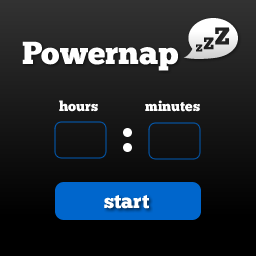
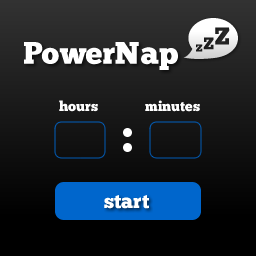
- extracted button and textfield classes - new background with changed casing - first draft of the actual countdown class

Changed region(s): [[0.0625, 0.1562, 0.6875, 0.2812], [0.5625, 0.4688, 0.8125, 0.625], [0.375, 0.4688, 0.4375, 0.625]]

diff --git a/powerNap/src/powernap/NapFrame.java b/powerNap/src/powernap/NapFrame.java
@@ -31,34 +31,25 @@ public class NapFrame extends JFrame
 	private JTextField tbMinutes;
 	private JLayeredPane layers;
 
-	class TransparentButton extends JButton
-	{
-		private static final long serialVersionUID = 7639226803169238927L;
-
-		public TransparentButton(String text)
-		{
-			super(text);
-			setOpaque(false);
-		}
-
-		public void paint(Graphics g)
-		{
-			Graphics2D g2 = (Graphics2D) g.create();
-			g2.setComposite(AlphaComposite.getInstance(AlphaComposite.SRC_OVER,
-					0.1f));
-			super.paint(g2);
-			g2.dispose();
-		}
-	}
-
 	public NapFrame(String string)
 	{
 		super(string);
 
 		initialize();
 		addUI();
+		
+		initOSX();
 
 		this.pack();
+	}
+
+	private void initOSX()
+	{
+		if(Main.IS_MAC)
+		{
+			System.setProperty("apple.laf.useScreenMenuBar", "true");
+			System.setProperty("com.apple.mrj.application.apple.menu.about.name", Main.APP_NAME);  
+		}
 	}
 
 	private void initialize()
@@ -94,7 +85,7 @@ public class NapFrame extends JFrame
 	{
 		layers = this.getLayeredPane();
 
-		btStart = new TransparentButton("");
+		btStart = new NapButton("");
 		btStart.setSize(146, 38);
 		btStart.setLocation(55, 182);
 		btStart.setContentAreaFilled(false);
@@ -124,19 +115,5 @@ public class NapFrame extends JFrame
 		tbMinutes.setFont(font);
 		tbMinutes.setText("0");
 		layers.add(tbMinutes, JLayeredPane.PALETTE_LAYER);
-	}
-	
-	class NapTextfield extends JTextField
-	{
-		private static final long serialVersionUID = 2797874554619229084L;
-
-		public NapTextfield()
-		{
-			super();
-			setBorder(javax.swing.BorderFactory.createEmptyBorder());
-			setForeground(Color.WHITE);
-			setOpaque(false);
-			setHorizontalAlignment(JTextField.CENTER);
-		}
 	}
 }

diff --git a/powerNap/src/powernap/Countdown.java b/powerNap/src/powernap/Countdown.java
@@ -1,0 +1,62 @@
+package powernap;
+
+public class Countdown
+{
+	private CountdownListener listener;
+	private long countdownEndMillis = Long.MAX_VALUE;
+	private Thread countdownThread;
+
+	public Countdown()
+	{
+		this.countdownThread = new Thread(new CountdownThread());
+	}
+
+	public interface CountdownListener
+	{
+		void countdownElapsed();
+	}
+
+	public void setCountdownListener(CountdownListener listener)
+	{
+		this.listener = listener;
+	}
+
+	private class CountdownThread implements Runnable
+	{
+		public void run()
+		{
+			for (;;)
+			{
+				if (System.currentTimeMillis() > countdownEndMillis)
+				{
+					if (listener != null)
+					{
+						listener.countdownElapsed();
+					}
+					break;
+				}
+				try
+				{
+					Thread.sleep(500);
+				}
+				catch (InterruptedException e)
+				{
+				}
+			}
+		}
+	}
+
+	public void startCountdown(int hours, int minutes, int seconds)
+	{
+		long nowMillis = System.currentTimeMillis();
+		
+		long durationMillis = 0;
+		durationMillis += hours * 3600 * 1000;
+		durationMillis += minutes * 60 * 1000;
+		durationMillis += seconds * 1000;
+		
+		countdownEndMillis = nowMillis + durationMillis;
+
+		countdownThread.start();
+	}
+}

diff --git a/powerNap/src/powernap/Main.java b/powerNap/src/powernap/Main.java
@@ -11,6 +11,7 @@ public class Main
 {
     public static boolean IS_MAC = (System.getProperty("os.name").toLowerCase().startsWith("mac os x"));
     public static int MENU_MASK = Toolkit.getDefaultToolkit().getMenuShortcutKeyMask();
+    public static String APP_NAME = "PowerNap";
 
 	public static void main(String[] args) throws Exception
 	{
@@ -19,7 +20,7 @@ public class Main
 		
 		UIManager.setLookAndFeel(UIManager.getSystemLookAndFeelClassName());
 
-		final JFrame f = new NapFrame("PowerNap");
+		final JFrame f = new NapFrame(APP_NAME);
 		f.setDefaultCloseOperation(JFrame.DO_NOTHING_ON_CLOSE);		
 		f.setSize(256, 276);
 		f.setResizable(false);

diff --git a/powerNap/src/powernap/NapButton.java b/powerNap/src/powernap/NapButton.java
@@ -1,0 +1,27 @@
+package powernap;
+
+import java.awt.AlphaComposite;
+import java.awt.Graphics;
+import java.awt.Graphics2D;
+
+import javax.swing.JButton;
+
+class NapButton extends JButton
+{
+	private static final long serialVersionUID = 7639226803169238927L;
+
+	public NapButton(String text)
+	{
+		super(text);
+		setOpaque(false);
+	}
+
+	public void paint(Graphics g)
+	{
+		Graphics2D g2 = (Graphics2D) g.create();
+		g2.setComposite(AlphaComposite.getInstance(AlphaComposite.SRC_OVER,
+				0.1f));
+		super.paint(g2);
+		g2.dispose();
+	}
+}

diff --git a/powerNap/src/powernap/NapTextfield.java b/powerNap/src/powernap/NapTextfield.java
@@ -1,0 +1,19 @@
+package powernap;
+
+import java.awt.Color;
+
+import javax.swing.JTextField;
+
+public 	class NapTextfield extends JTextField
+{
+	private static final long serialVersionUID = 2797874554619229084L;
+
+	public NapTextfield()
+	{
+		super();
+		setBorder(javax.swing.BorderFactory.createEmptyBorder());
+		setForeground(Color.WHITE);
+		setOpaque(false);
+		setHorizontalAlignment(JTextField.CENTER);
+	}
+}
